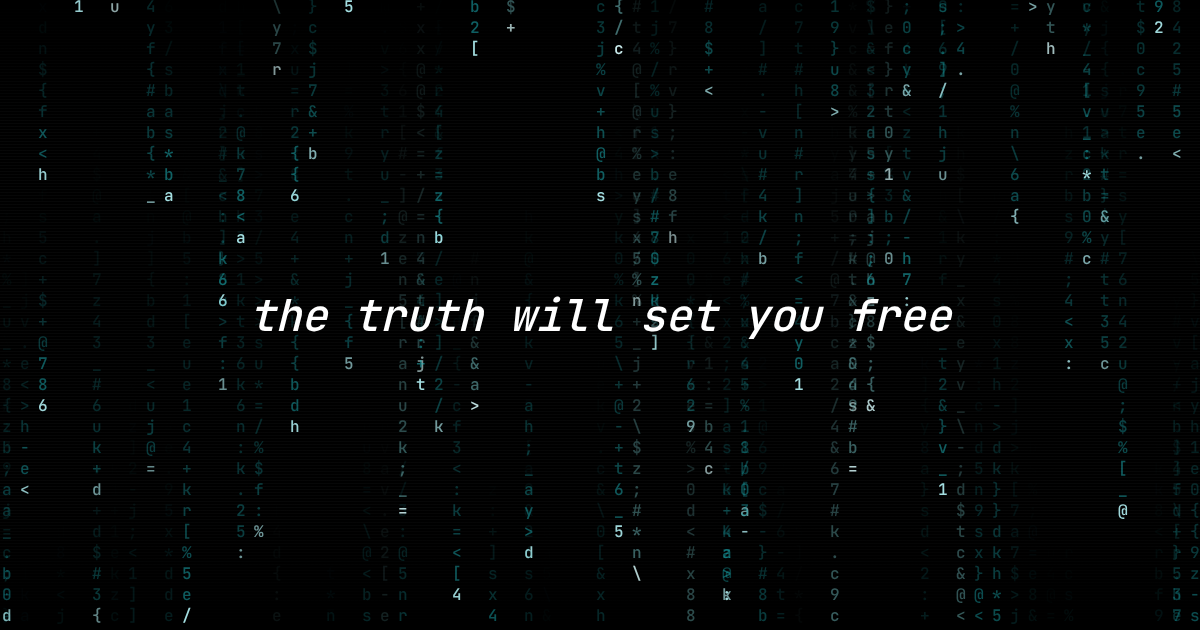
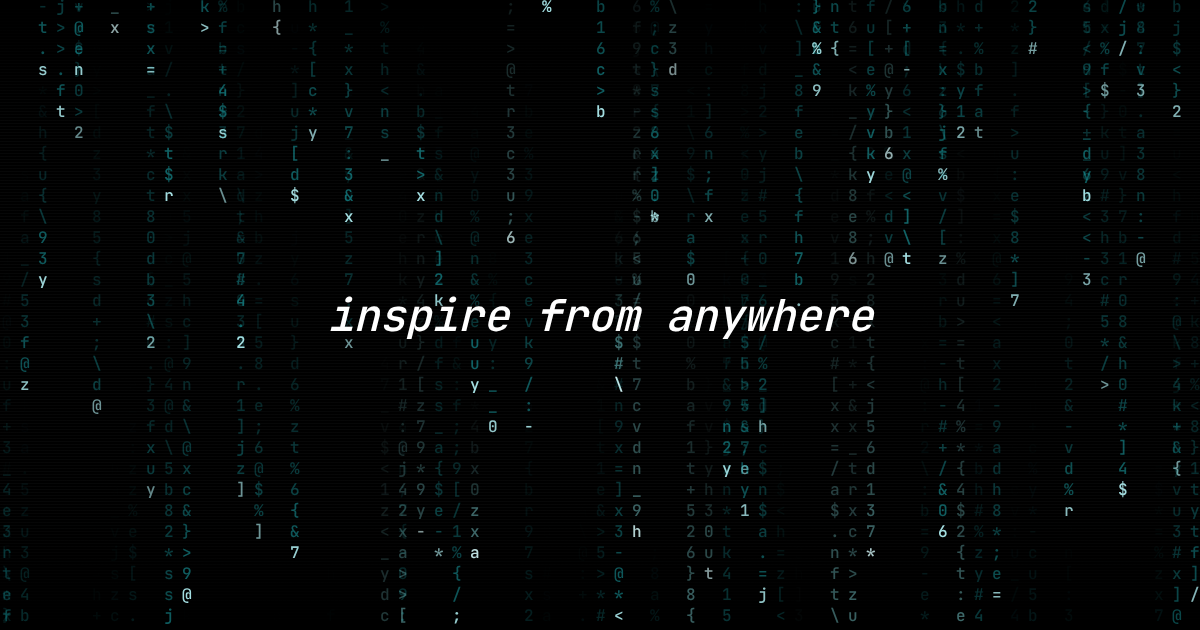
Set the header line to inspire from anywhere. (#315)
The same words are on every public page, in the share-card alt text, and on the shared card.

diff --git a/site/me/index.html b/site/me/index.html
@@ -24,18 +24,18 @@
 <meta property="og:url" content="https://jayroddi.lol/me/">
 <meta property="og:title" content="me">
 <meta property="og:description" content="we fall to the level of our habits">
-<meta property="og:image" content="https://jayroddi.lol/og-card.png?v=3.5">
+<meta property="og:image" content="https://jayroddi.lol/og-card.png?v=3.6">
 <meta property="og:image:width" content="1200">
 <meta property="og:image:height" content="630">
 <meta property="og:image:type" content="image/png">
-<meta property="og:image:alt" content="the truth will set you free">
+<meta property="og:image:alt" content="inspire from anywhere">
 <meta name="twitter:card" content="summary_large_image">
 <meta name="twitter:site" content="@jayroddi">
 <meta name="twitter:url" content="https://jayroddi.lol/me/">
 <meta name="twitter:title" content="me">
 <meta name="twitter:description" content="we fall to the level of our habits">
-<meta name="twitter:image" content="https://jayroddi.lol/og-card.png?v=3.5">
-<meta name="twitter:image:alt" content="the truth will set you free">
+<meta name="twitter:image" content="https://jayroddi.lol/og-card.png?v=3.6">
+<meta name="twitter:image:alt" content="inspire from anywhere">
 <script type="application/ld+json">{"@context":"https://schema.org","@type":"WebPage","name":"me","url":"https://jayroddi.lol/me/","isPartOf":{"@type":"WebSite","name":"jayroddi.lol","url":"https://jayroddi.lol/"}}</script>
 <link rel="stylesheet" href="/assets/rain.css?v=2.58"><script src="/assets/rain.js?v=2.74"></script>
 <link rel="stylesheet" href="/assets/foot.css?v=2.00"><script src="/assets/foot.js?v=2.83" defer></script>
@@ -50,7 +50,7 @@
 <main class="stage" id="stage">
   <h1 class="visually-hidden">jay tha ninja habits</h1>
   <div class="copy">
-    <header class="mast"><button type="button" class="pages"><span class="pages-t">the truth will set you free</span></button><nav class="nav" aria-label="pages"><a href="/">snaps</a><span class="sep" aria-hidden="true"> // </span><a href="/music/">music</a><span class="sep" aria-hidden="true"> // </span><a href="/books/">books</a><span class="sep" aria-hidden="true"> // </span><a href="/quotes/">quotes</a><span class="sep" aria-hidden="true"> // </span><a href="/me/" aria-current="page">me</a></nav></header>
+    <header class="mast"><button type="button" class="pages"><span class="pages-t">inspire from anywhere</span></button><nav class="nav" aria-label="pages"><a href="/">snaps</a><span class="sep" aria-hidden="true"> // </span><a href="/music/">music</a><span class="sep" aria-hidden="true"> // </span><a href="/books/">books</a><span class="sep" aria-hidden="true"> // </span><a href="/quotes/">quotes</a><span class="sep" aria-hidden="true"> // </span><a href="/me/" aria-current="page">me</a></nav></header>
     <p class="note-line">we fall to the level of our habits</p>
     <div class="trackers">
       <section class="tracker" data-id="cursor" data-unit="contribution" data-src="/habits/cursor.json" aria-label="code">

diff --git a/site/index.html b/site/index.html
@@ -30,18 +30,18 @@
 <meta property="og:url" content="https://jayroddi.lol/">
 <meta property="og:title" content="snaps">
 <meta property="og:description" content="photos">
-<meta property="og:image" content="https://jayroddi.lol/og-card.png?v=3.5">
+<meta property="og:image" content="https://jayroddi.lol/og-card.png?v=3.6">
 <meta property="og:image:width" content="1200">
 <meta property="og:image:height" content="630">
 <meta property="og:image:type" content="image/png">
-<meta property="og:image:alt" content="the truth will set you free">
+<meta property="og:image:alt" content="inspire from anywhere">
 <meta name="twitter:card" content="summary_large_image">
 <meta name="twitter:site" content="@jayroddi">
 <meta name="twitter:url" content="https://jayroddi.lol/">
 <meta name="twitter:title" content="snaps">
 <meta name="twitter:description" content="photos">
-<meta name="twitter:image" content="https://jayroddi.lol/og-card.png?v=3.5">
-<meta name="twitter:image:alt" content="the truth will set you free">
+<meta name="twitter:image" content="https://jayroddi.lol/og-card.png?v=3.6">
+<meta name="twitter:image:alt" content="inspire from anywhere">
 <script type="application/ld+json">{"@context":"https://schema.org","@type":"WebSite","name":"jayroddi.lol","url":"https://jayroddi.lol/"}</script>
 </head>
 <body class="board snaps">
@@ -54,7 +54,7 @@
 <main class="stage">
   <h1 class="visually-hidden">snaps</h1>
   <div class="copy">
-    <header class="mast"><button type="button" class="pages"><span class="pages-t">the truth will set you free</span></button><nav class="nav" aria-label="pages"><a href="/" aria-current="page">snaps</a><span class="sep" aria-hidden="true"> // </span><a href="/music/">music</a><span class="sep" aria-hidden="true"> // </span><a href="/books/">books</a><span class="sep" aria-hidden="true"> // </span><a href="/quotes/">quotes</a><span class="sep" aria-hidden="true"> // </span><a href="/me/">me</a></nav></header>
+    <header class="mast"><button type="button" class="pages"><span class="pages-t">inspire from anywhere</span></button><nav class="nav" aria-label="pages"><a href="/" aria-current="page">snaps</a><span class="sep" aria-hidden="true"> // </span><a href="/music/">music</a><span class="sep" aria-hidden="true"> // </span><a href="/books/">books</a><span class="sep" aria-hidden="true"> // </span><a href="/quotes/">quotes</a><span class="sep" aria-hidden="true"> // </span><a href="/me/">me</a></nav></header>
   </div>
   <!-- TEMPORARY (jay 2026.10.20): backlog note above the newest month. remove this one line, and .backlog in snaps.css, when jay says the backlog is done. -->
   <p class="backlog">you can see everythi</p>

diff --git a/site/books/index.html b/site/books/index.html
@@ -27,17 +27,17 @@
 <meta property="og:url" content="https://jayroddi.lol/books/">
 <meta property="og:title" content="books">
 <meta property="og:description" content="we read to know we are not alone">
-<meta property="og:image" content="https://jayroddi.lol/og-card.png?v=3.5">
+<meta property="og:image" content="https://jayroddi.lol/og-card.png?v=3.6">
 <meta property="og:image:width" content="1200">
 <meta property="og:image:height" content="630">
-<meta property="og:image:alt" content="the truth will set you free">
+<meta property="og:image:alt" content="inspire from anywhere">
 <meta name="twitter:card" content="summary_large_image">
 <meta name="twitter:site" content="@jayroddi">
 <meta name="twitter:url" content="https://jayroddi.lol/books/">
 <meta name="twitter:title" content="books">
 <meta name="twitter:description" content="we read to know we are not alone">
-<meta name="twitter:image" content="https://jayroddi.lol/og-card.png?v=3.5">
-<meta name="twitter:image:alt" content="the truth will set you free">
+<meta name="twitter:image" content="https://jayroddi.lol/og-card.png?v=3.6">
+<meta name="twitter:image:alt" content="inspire from anywhere">
 </head>
 <body class="board">
 <div class="glows" aria-hidden="true">
@@ -49,7 +49,7 @@
 <main class="stage">
   <h1 class="visually-hidden">books</h1>
   <div class="copy">
-    <header class="mast"><button type="button" class="pages"><span class="pages-t">the truth will set you free</span></button><nav class="nav" aria-label="pages"><a href="/">snaps</a><span class="sep" aria-hidden="true"> // </span><a href="/music/">music</a><span class="sep" aria-hidden="true"> // </span><a href="/books/" aria-current="page">books</a><span class="sep" aria-hidden="true"> // </span><a href="/quotes/">quotes</a><span class="sep" aria-hidden="true"> // </span><a href="/me/">me</a></nav></header>
+    <header class="mast"><button type="button" class="pages"><span class="pages-t">inspire from anywhere</span></button><nav class="nav" aria-label="pages"><a href="/">snaps</a><span class="sep" aria-hidden="true"> // </span><a href="/music/">music</a><span class="sep" aria-hidden="true"> // </span><a href="/books/" aria-current="page">books</a><span class="sep" aria-hidden="true"> // </span><a href="/quotes/">quotes</a><span class="sep" aria-hidden="true"> // </span><a href="/me/">me</a></nav></header>
     <p class="note-line">we read to know we are not alone</p>
     <div class="years" aria-label="books"></div>
   </div>

diff --git a/site/quotes/index.html b/site/quotes/index.html
@@ -26,17 +26,17 @@
 <meta property="og:url" content="https://jayroddi.lol/quotes">
 <meta property="og:title" content="quotes">
 <meta property="og:description" content="daily quotes from jayroddi.lol">
-<meta property="og:image" content="https://jayroddi.lol/og-card.png?v=3.5">
+<meta property="og:image" content="https://jayroddi.lol/og-card.png?v=3.6">
 <meta property="og:image:width" content="1200">
 <meta property="og:image:height" content="630">
-<meta property="og:image:alt" content="the truth will set you free">
+<meta property="og:image:alt" content="inspire from anywhere">
 <meta name="twitter:card" content="summary_large_image">
 <meta name="twitter:site" content="@jayroddi">
 <meta name="twitter:url" content="https://jayroddi.lol/quotes">
 <meta name="twitter:title" content="quotes">
 <meta name="twitter:description" content="daily quotes from jayroddi.lol">
-<meta name="twitter:image" content="https://jayroddi.lol/og-card.png?v=3.5">
-<meta name="twitter:image:alt" content="the truth will set you free">
+<meta name="twitter:image" content="https://jayroddi.lol/og-card.png?v=3.6">
+<meta name="twitter:image:alt" content="inspire from anywhere">
 </head>
 <body class="board">
 <div class="glows" aria-hidden="true">
@@ -48,7 +48,7 @@
 <main class="stage">
   <h1 class="visually-hidden">quotes</h1>
   <div class="copy">
-    <header class="mast"><button type="button" class="pages"><span class="pages-t">the truth will set you free</span></button><nav class="nav" aria-label="pages"><a href="/">snaps</a><span class="sep" aria-hidden="true"> // </span><a href="/music/">music</a><span class="sep" aria-hidden="true"> // </span><a href="/books/">books</a><span class="sep" aria-hidden="true"> // </span><a href="/quotes/" aria-current="page">quotes</a><span class="sep" aria-hidden="true"> // </span><a href="/me/">me</a></nav></header>
+    <header class="mast"><button type="button" class="pages"><span class="pages-t">inspire from anywhere</span></button><nav class="nav" aria-label="pages"><a href="/">snaps</a><span class="sep" aria-hidden="true"> // </span><a href="/music/">music</a><span class="sep" aria-hidden="true"> // </span><a href="/books/">books</a><span class="sep" aria-hidden="true"> // </span><a href="/quotes/" aria-current="page">quotes</a><span class="sep" aria-hidden="true"> // </span><a href="/me/">me</a></nav></header>
     <p class="note-line">15 years and counting</p>
     <ol class="quotes" aria-label="quotes"></ol>
   </div>

diff --git a/site/music/index.html b/site/music/index.html
@@ -27,17 +27,17 @@
 <meta property="og:url" content="https://jayroddi.lol/music/">
 <meta property="og:title" content="music">
 <meta property="og:description" content="forgot about jay">
-<meta property="og:image" content="https://jayroddi.lol/og-card.png?v=3.5">
+<meta property="og:image" content="https://jayroddi.lol/og-card.png?v=3.6">
 <meta property="og:image:width" content="1200">
 <meta property="og:image:height" content="630">
-<meta property="og:image:alt" content="the truth will set you free">
+<meta property="og:image:alt" content="inspire from anywhere">
 <meta name="twitter:card" content="summary_large_image">
 <meta name="twitter:site" content="@jayroddi">
 <meta name="twitter:url" content="https://jayroddi.lol/music/">
 <meta name="twitter:title" content="music">
 <meta name="twitter:description" content="forgot about jay">
-<meta name="twitter:image" content="https://jayroddi.lol/og-card.png?v=3.5">
-<meta name="twitter:image:alt" content="the truth will set you free">
+<meta name="twitter:image" content="https://jayroddi.lol/og-card.png?v=3.6">
+<meta name="twitter:image:alt" content="inspire from anywhere">
 </head>
 <body class="board">
 <div class="glows" aria-hidden="true">
@@ -49,7 +49,7 @@
 <main class="stage">
   <h1 class="visually-hidden">music</h1>
   <div class="copy">
-    <header class="mast"><button type="button" class="pages"><span class="pages-t">the truth will set you free</span></button><nav class="nav" aria-label="pages"><a href="/">snaps</a><span class="sep" aria-hidden="true"> // </span><a href="/music/" aria-current="page">music</a><span class="sep" aria-hidden="true"> // </span><a href="/books/">books</a><span class="sep" aria-hidden="true"> // </span><a href="/quotes/">quotes</a><span class="sep" aria-hidden="true"> // </span><a href="/me/">me</a></nav></header>
+    <header class="mast"><button type="button" class="pages"><span class="pages-t">inspire from anywhere</span></button><nav class="nav" aria-label="pages"><a href="/">snaps</a><span class="sep" aria-hidden="true"> // </span><a href="/music/" aria-current="page">music</a><span class="sep" aria-hidden="true"> // </span><a href="/books/">books</a><span class="sep" aria-hidden="true"> // </span><a href="/quotes/">quotes</a><span class="sep" aria-hidden="true"> // </span><a href="/me/">me</a></nav></header>
     <p class="note-line">forgot about jay</p>
     <ol class="covers" aria-label="playlist"></ol>
   </div>

diff --git a/scripts/cards/card-simple.html b/scripts/cards/card-simple.html
@@ -2,7 +2,7 @@
 <html lang="en">
 <head>
 <meta charset="utf-8">
-<!-- v3.5 (jay 2026.10.25): the one share card for every page. the site's own teal rain (rain.css + rain.js) on black, the header line centered, white, 44px. -->
+<!-- v3.6 (jay 2026.10.26): the one share card for every page. the site's own teal rain (rain.css + rain.js) on black, the header line centered, white, 44px. -->
 <meta name="viewport" content="width=1200, initial-scale=1">
 <meta name="color-scheme" content="dark">
 <link rel="stylesheet" href="/habits/habits.css">
@@ -16,7 +16,7 @@ html,body{margin:0;width:1200px;height:630px;overflow:hidden;background:#000}
 <body class="board">
 <canvas id="rain" aria-hidden="true"></canvas>
 <div class="scan" aria-hidden="true"></div>
-<div class="card"><p>the truth will set you free</p></div>
+<div class="card"><p>inspire from anywhere</p></div>
 <script src="/assets/rain.js"></script>
 <script>
 // the same rain the snaps page builds (snaps.js), full height, glyphs behind the line fade like they do behind page content

diff --git a/README.md b/README.md
@@ -4,7 +4,7 @@ Personal site. The repository is still named `jaytha.ninja`. The live site is [h
 
 `site/CNAME` is `jayroddi.lol`. Pushes to `main` deploy `site/` to GitHub Pages (`.github/workflows/pages.yml`).
 
-The header on every public page is `the truth will set you free`. Under it the nav is one centered line: `snaps // music // books // quotes // me`.
+The header on every public page is `inspire from anywhere`. Under it the nav is one centered line: `snaps // music // books // quotes // me`.
 
 | page | what it is |
 |---|---|
